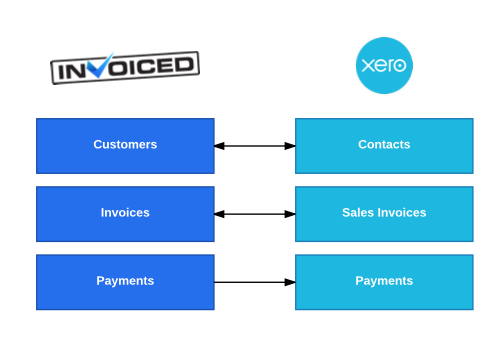
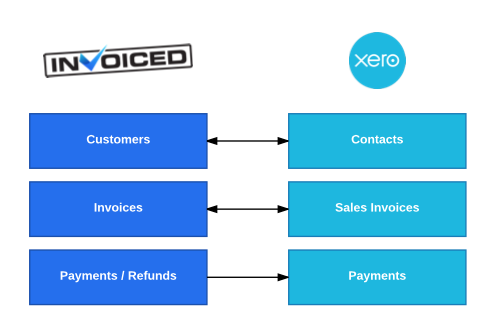
added refunds to accounting integrations

diff --git a/accounting/quickbooks-online.md b/accounting/quickbooks-online.md
@@ -7,7 +7,7 @@ Invoiced integrates with QuickBooks Online out of the box to extend the billing 
 The QuickBooks Online integration ships with the following capabilities:
 
 - Importing outstanding invoices from QuickBooks Online
-- Importing contacts from QuickBo   oks Online
+- Importing contacts from QuickBooks Online
 - Writing invoices generated on Invoiced to QuickBooks Online
 - Reconciling payments received on Invoiced to QuickBooks Online
 
@@ -150,6 +150,8 @@ Here we have documented all of the limitations, nuances, and edge cases to be aw
 - Any changes to invoices imported from QuickBooks that are later modified on Invoiced will not be synced to QuickBooks. However, any payments received for imported invoices will be synced.
 
 - If a line item on Invoiced has a catalog item attached, then the item created on QuickBooks will have its SKU set to the catalog item ID.
+
+- If a synced payment is refunded on Invoiced, the refund amount will be deducted from the original payment on QuickBooks.
 
 ## Troubleshooting
 

diff --git a/accounting/xero.md b/accounting/xero.md
@@ -185,6 +185,10 @@ Taxes synced to Xero are exclusive by default. If you want to change this to inc
 
 No, tracking categories are not currently supported.
 
+### How are refunds handled?
+
+If a synced payment is refunded on Invoiced, the refund amount will be deducted from the original payment on Xero.
+
 ## Troubleshooting
 
 When a sync fails you will be able to see the error message in the *Recent Syncs* section in **Settings** > **Accounting Sync**. Normally the error message will include the invoice # that failed and a detailed reason why it could not be synced. Oftentimes there is a manual action required on your end.
